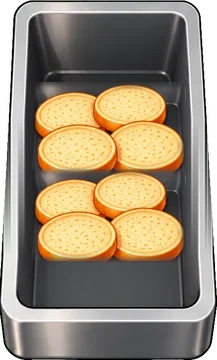
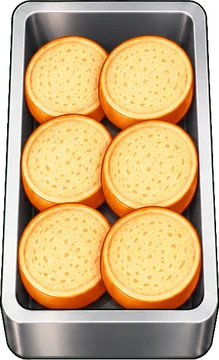
버거 러시 세로 재료 통(P08·P09) 적용: 임시로 만든 세로 통 대신 GPT 그림으로

diff --git a/burger/index.html b/burger/index.html
@@ -10,18 +10,18 @@
 <meta name="theme-color" content="#5CA9E6">
 <meta name="application-name" content="은유와 은결">
 <title>은유와 은결</title>
-<link rel="manifest" href="../hub/manifest.json?v=202611102115">
-<link rel="apple-touch-icon" href="../hub/icons/icon-180.png?v=202611102115">
-<link rel="icon" type="image/png" sizes="32x32" href="../hub/icons/favicon-32.png?v=202611102115">
-<link rel="icon" type="image/png" sizes="16x16" href="../hub/icons/favicon-16.png?v=202611102115">
-<link rel="icon" type="image/png" sizes="192x192" href="../hub/icons/favicon-192.png?v=202611102115">
-<link rel="shortcut icon" href="../favicon.ico?v=202611102115">
-<link rel="preload" href="../common/fonts/jua.woff2?v=202611102115" as="font" type="font/woff2" crossorigin>
-<link rel="stylesheet" href="style.css?v=202611102115">
-<link rel="stylesheet" href="../common/pause.css?v=202611102115">
-<link rel="stylesheet" href="../common/popup.css?v=202611102115">
+<link rel="manifest" href="../hub/manifest.json?v=202611102203">
+<link rel="apple-touch-icon" href="../hub/icons/icon-180.png?v=202611102203">
+<link rel="icon" type="image/png" sizes="32x32" href="../hub/icons/favicon-32.png?v=202611102203">
+<link rel="icon" type="image/png" sizes="16x16" href="../hub/icons/favicon-16.png?v=202611102203">
+<link rel="icon" type="image/png" sizes="192x192" href="../hub/icons/favicon-192.png?v=202611102203">
+<link rel="shortcut icon" href="../favicon.ico?v=202611102203">
+<link rel="preload" href="../common/fonts/jua.woff2?v=202611102203" as="font" type="font/woff2" crossorigin>
+<link rel="stylesheet" href="style.css?v=202611102203">
+<link rel="stylesheet" href="../common/pause.css?v=202611102203">
+<link rel="stylesheet" href="../common/popup.css?v=202611102203">
 <!-- 화면을 한 번에 보여 주기: 그림·글꼴이 다 준비될 때까지 가려 두고 한꺼번에 (common/boot.js) -->
-<script src="../common/boot.js?v=202611102115"></script>
+<script src="../common/boot.js?v=202611102203"></script>
 </head>
 <body>
 <div id="safe"></div>
@@ -42,7 +42,7 @@
   <!-- READY -->
   <div id="ready" class="screen hidden">
     <div class="panel">
-      <img class="logo" src="assets/ui/logo.webp?v=202611102115" alt="버거 러시">
+      <img class="logo" src="assets/ui/logo.webp?v=202611102203" alt="버거 러시">
       <div class="p-title" id="readyTitle">1-1 햄버거 골목 1</div>
       <div class="p-text">손님 주문대로 버거를 쌓아 내줘요! 손님이 화나서 떠나면 하트 -1</div>
       <div class="p-sub" id="readyInfo">손님 4명</div>
@@ -98,13 +98,13 @@
 
   <div id="toast" class="toast hidden"></div>
 </div>
-<script src="../common/chars/looks.js?v=202611102115"></script>
-<script src="../common/profile.js?v=202611102115"></script>
-<script src="../common/i18n_data.js?v=202611102115"></script>
-<script src="../common/i18n.js?v=202611102115"></script>
-<script src="../common/gamepop.js?v=202611102115"></script>
-<script src="levels.js?v=202611102115"></script>
-<script src="game.js?v=202611102115"></script>
-<script src="../common/popup.js?v=202611102115"></script>
+<script src="../common/chars/looks.js?v=202611102203"></script>
+<script src="../common/profile.js?v=202611102203"></script>
+<script src="../common/i18n_data.js?v=202611102203"></script>
+<script src="../common/i18n.js?v=202611102203"></script>
+<script src="../common/gamepop.js?v=202611102203"></script>
+<script src="levels.js?v=202611102203"></script>
+<script src="game.js?v=202611102203"></script>
+<script src="../common/popup.js?v=202611102203"></script>
 </body>
 </html>

diff --git a/burger/style.css b/burger/style.css
@@ -6,7 +6,7 @@
 * { box-sizing: border-box; -webkit-tap-highlight-color: transparent; }
 html, body {
   margin: 0; height: 100%; overflow: hidden; position: fixed; inset: 0;
-  background: #F4D7CF url(assets/bg/land.webp?v=202611102115) center / cover no-repeat; touch-action: none; overscroll-behavior: none;
+  background: #F4D7CF url(assets/bg/land.webp?v=202611102203) center / cover no-repeat; touch-action: none; overscroll-behavior: none;
   -webkit-user-select: none; user-select: none; -webkit-touch-callout: none;
   font-family: var(--font); color: var(--navy);
 }
@@ -86,8 +86,8 @@ button:active { transform: translateY(3px); }
 .pill.coins { margin-left: auto; }
 /* 하트: 모든 게임 공통 그림 (common/ui/heart.webp · heart_empty.webp) */
 .pill.hearts { padding: 3px 8px; gap: 2px; }
-.heart { display: inline-block; width: 25px; height: 23px; background: center/contain no-repeat url(../common/ui/heart.webp?v=202611102115); filter: drop-shadow(0 2px 2px rgba(0,0,0,.25)); }
-.heart.empty { background-image: url(../common/ui/heart_empty.webp?v=202611102115); opacity: .85; }
+.heart { display: inline-block; width: 25px; height: 23px; background: center/contain no-repeat url(../common/ui/heart.webp?v=202611102203); filter: drop-shadow(0 2px 2px rgba(0,0,0,.25)); }
+.heart.empty { background-image: url(../common/ui/heart_empty.webp?v=202611102203); opacity: .85; }
 .heart.pop { animation: heartPop 380ms; }
 @keyframes heartPop { 40% { transform: scale(1.5); } }
 .r-why { font-size: 18px; color: #FFD9E2; }

diff --git a/burger/game.js b/burger/game.js
@@ -22,7 +22,7 @@ const isHard = (i) => i >= HARD;
 const worldOf = (i) => Math.floor((i % HARD) / PER_WORLD);
 const label = (i) => `${isHard(i) ? '어려움 ' : ''}${worldOf(i) + 1}-${(i % PER_WORLD) + 1}`;
 const stageName = (i) => `${WORLDS[worldOf(i)]} ${(i % PER_WORLD) + 1}`;
-const ASSET_V = '202611102115';
+const ASSET_V = '202611102203';
 const START_HEARTS = 3;
 const COIN_GUEST = 2, COIN_TIP = 1;
 const NAME = { bun: '빵', bun_b: '아래 빵', bun_t: '위 빵', patty: '패티', patty_raw: '생패티', cheese: '치즈', lettuce: '양상추', tomato: '토마토', onion: '양파', bacon: '베이컨', sauce: '소스',

diff --git a/tools/burger_assets.py b/tools/burger_assets.py
@@ -32,7 +32,7 @@ def intro():
     A.intro()
 
 
-KEEP_GREEN = {'lettuce', 'pile_lettuce', 'cider', 'machine_drink3', 'bin_lettuce', 'mach_cider'}  # 초록이 들어 있는 그림: 바깥과 이어진 초록만 지움 (나머지는 양파 고리 안쪽처럼 갇힌 초록까지 지움)
+KEEP_GREEN = {'lettuce', 'pile_lettuce', 'cider', 'machine_drink3', 'bin_lettuce', 'mach_cider', 'bint_lettuce'}  # 초록이 들어 있는 그림: 바깥과 이어진 초록만 지움 (나머지는 양파 고리 안쪽처럼 갇힌 초록까지 지움)
 
 
 def drop_small(im, frac=0.02):
@@ -109,7 +109,11 @@ def v3():
     if os.path.exists(src('v3/P07')):  # 소스 (13_소스.txt): 왼쪽 통 · 오른쪽 쌓는 조각
         save_grid('v3/P07', 2, 1, ['bin_sauce', None], 360, 'food')
         save_grid('v3/P07', 2, 1, [None, 'sauce'], 320, 'food', by_width=True)
-    tall_bins()
+    if os.path.exists(src('v3/P08')) and os.path.exists(src('v3/P09')):  # 세로 재료 통 (14_세로재료통.txt)
+        save_grid('v3/P08', 4, 1, ['bint_bun_t', 'bint_bun_b', 'bint_cheese', 'bint_bacon'], 360, 'food')
+        save_grid('v3/P09', 4, 1, ['bint_lettuce', 'bint_tomato', 'bint_onion', 'bint_sauce'], 360, 'food')
+    else:
+        tall_bins()
     print('v3')
 
 
